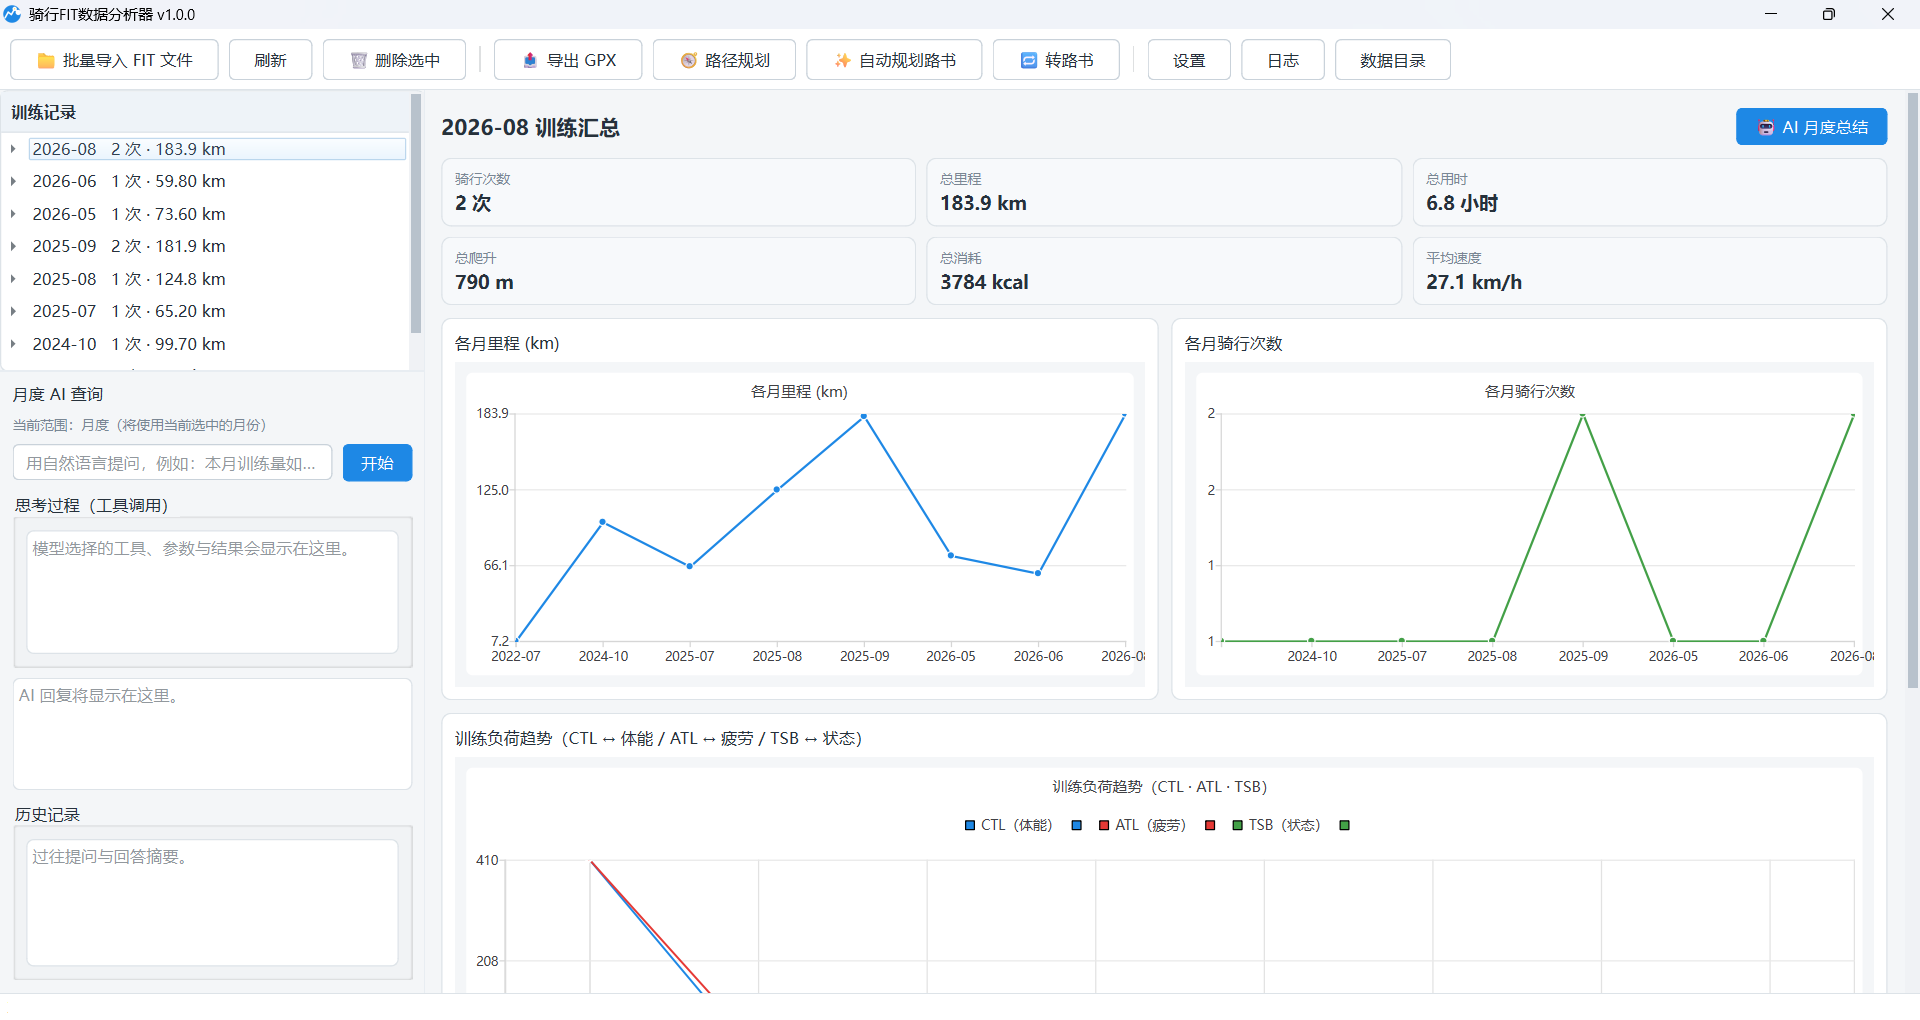
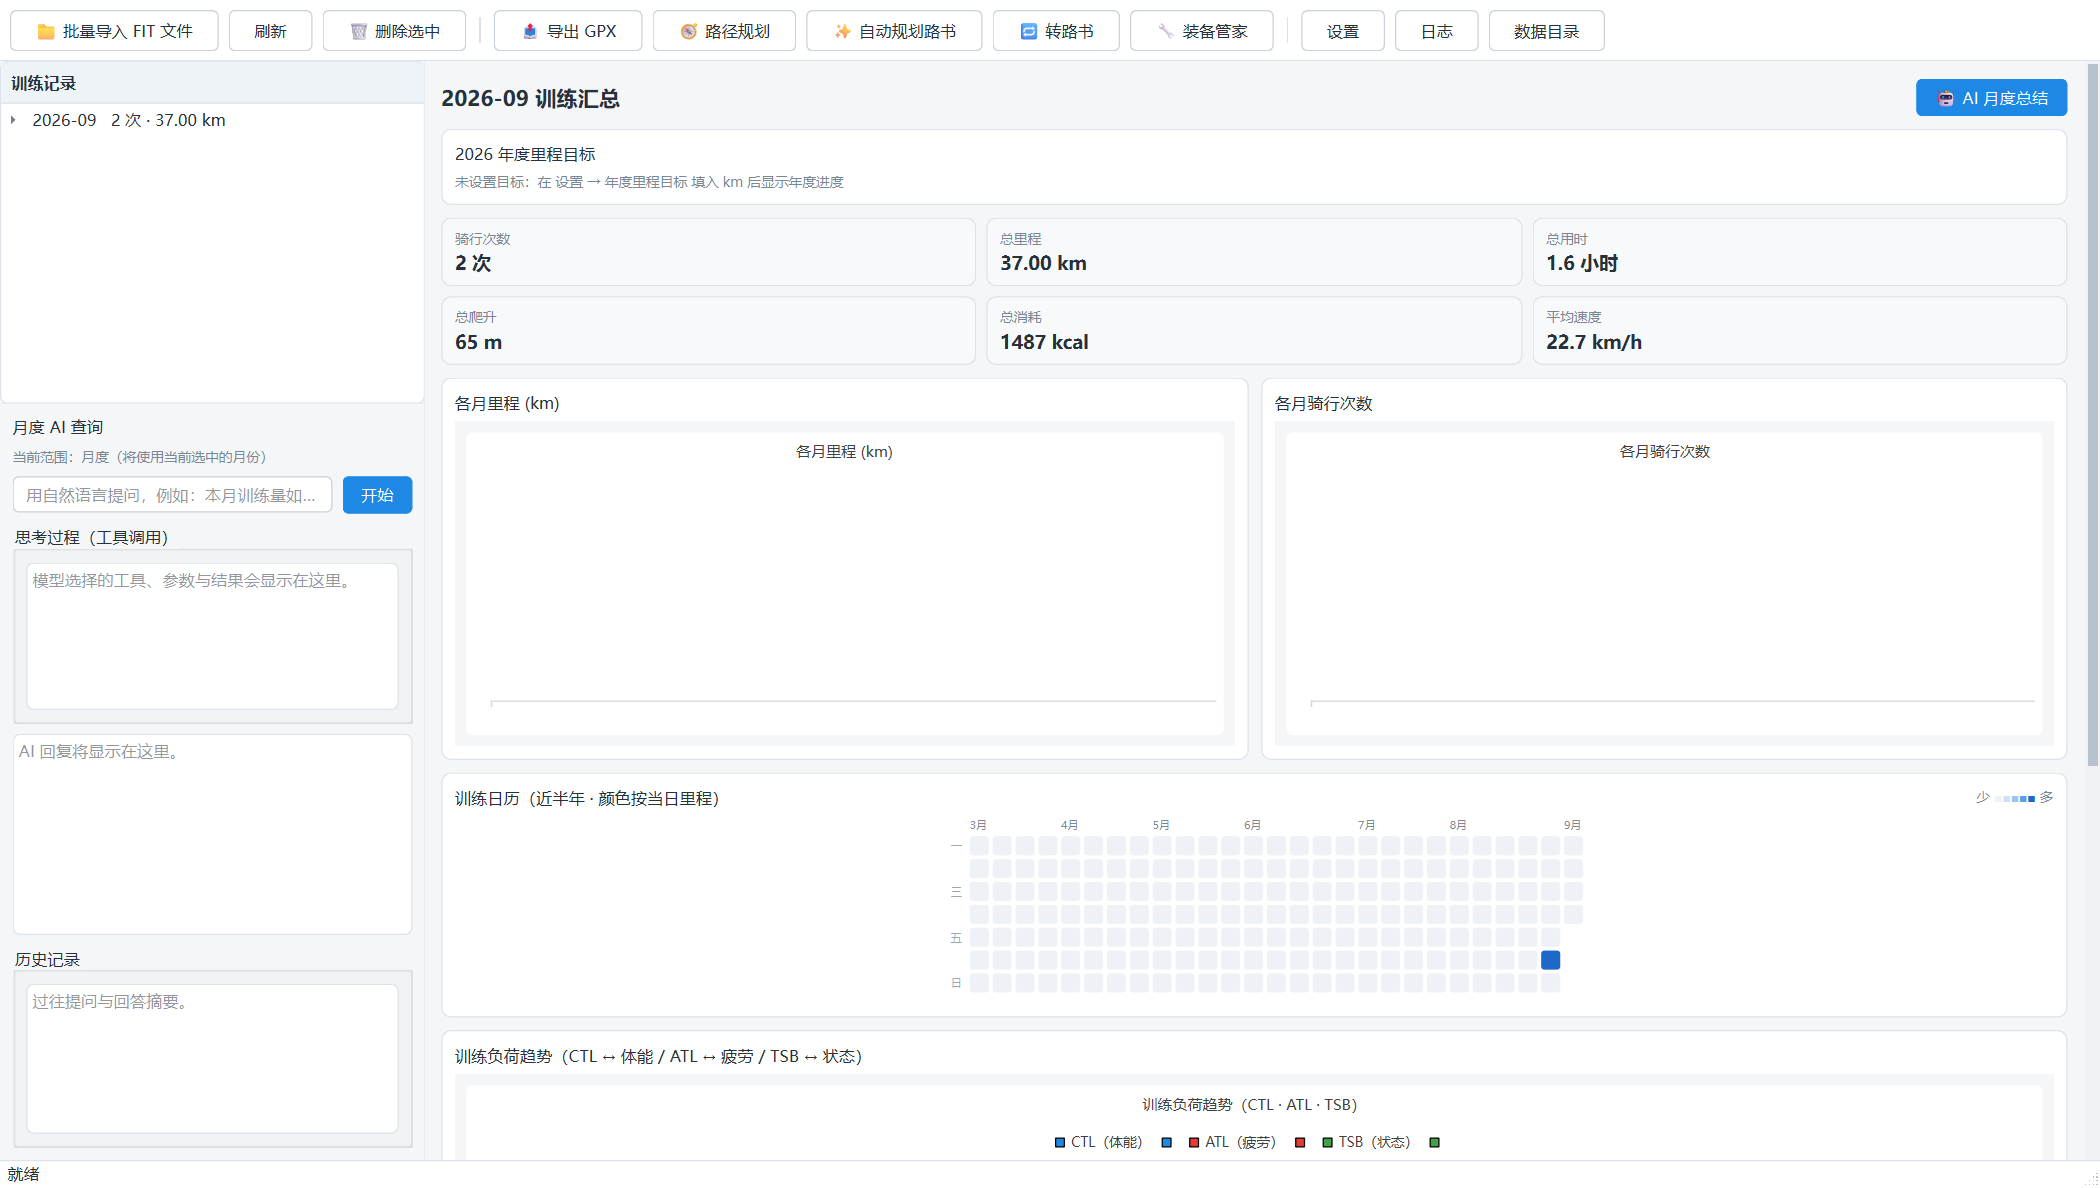
fix: 修复点击月度/活动记录时界面闪烁；新增 README 截图自动生成工具
界面体验
- 修复点击月份记录再点击单条活动时界面闪一下的问题：根因是每次点击
  都整页销毁重建全部控件（统计卡/图表/表格逐个删除再逐个添加），
  拆建过程在可见状态下逐帧渲染
- 两层修复：
  1) 视图缓存（_shown_month / _shown_activity_id）：同月份/同活动且
     数据未变时直接切页返回，不再重建，重复点击零开销
  2) 必须重建时用 setUpdatesEnabled(False) 暂停重绘，搭建完成后恢复，
     整页一次性成屏，消除中间帧
- 缓存失效点全部覆盖：导入/删除/重新识别设备（load_months）后强制
  重建；设置窗口关闭后强制重建当前视图（统计口径/年度目标/功率估算
  参数可能已变，避免显示旧数据）

文档与工具
- 新增 tools/make_screens.py：一键重新生成 README 全部 7 张界面截图
  （真实桌面平台渲染、WA_DontShowOnScreen 不弹窗、中文字体正常，
  数据库为空时自动从本机 FIT 目录导入；区别于 --selftest 的
  offscreen 模式截图中文显示为方框的问题）
- README 中英双语：登记截图工具与刷新说明、tools/ 目录入结构清单、
  补充装备管家章节 / 地名消歧说明 / 拖拽导入与 fit.db 描述
- imgs/ 下 7 张截图全部刷新至 v1.1.0 界面（含年度目标卡、训练日历
  热力图、恢复建议卡、估算功率标注、装备管家工具栏按钮）

验证：防闪烁行为自测 6/6（同月/同活动跳过重建、切换正常重建、
load_months 与设置变更后缓存正确失效），P0/P1 自测与既有测试
全量回归无破坏，打包 exe 离屏自检通过。

diff --git a/tools/make_screens.py b/tools/make_screens.py
@@ -1,0 +1,139 @@
+# -*- coding: utf-8 -*-
+"""重新生成 README 截图（imgs/*.png），使文档与当前界面保持一致。
+
+用法：
+    .venv/Scripts/python.exe tools/make_screens.py [--data-dir PATH]
+
+说明：
+- 优先使用 --data-dir 里的现有数据库；库为空时自动从本机 FIT 目录
+  （F:\\byciclefits 或 Documents\\deepseek\\fittestdata）导入
+- 真实桌面平台渲染：窗口设 WA_DontShowOnScreen（不会真的弹到屏幕上，
+  且中文字体正常，区别于 --selftest 的 offscreen 模式），grab() 截图
+- 每次界面有改动后重跑一遍即可刷新 README 里的截图
+"""
+import argparse
+import sys
+import time
+from pathlib import Path
+
+ROOT = Path(__file__).resolve().parent.parent
+sys.path.insert(0, str(ROOT))
+
+IMGS = ROOT / "imgs"
+
+
+def _settle(app, n=20):
+    """处理事件循环，让图表/控件完成布局与渲染。"""
+    for _ in range(n):
+        app.processEvents()
+        time.sleep(0.03)
+
+
+def _tab_index(tabs, text):
+    for i in range(tabs.count()):
+        if tabs.tabText(i) == text:
+            return i
+    return 0
+
+
+def main():
+    parser = argparse.ArgumentParser(description="重新生成 README 截图")
+    parser.add_argument("--data-dir", default=None, help="数据目录（默认 .tmp/screens_data）")
+    args = parser.parse_args()
+
+    data_dir = Path(args.data_dir) if args.data_dir else ROOT / ".tmp" / "screens_data"
+    data_dir.mkdir(parents=True, exist_ok=True)
+
+    from PySide6.QtCore import Qt
+    from PySide6.QtWidgets import QApplication
+
+    from core import db as db_mod, fit_parser, logging_setup
+    from core.config import Config
+
+    logging_setup.setup_logging(data_dir, console=False)
+    app = QApplication(sys.argv[:1])
+    app.setStyle("Fusion")
+    from gui.theme import QSS, apply_light_palette
+    apply_light_palette(app)
+    app.setStyleSheet(QSS)
+
+    config = Config(data_dir / "config.json")
+    db = db_mod.DB(data_dir / "fit.db")
+    if db.count() == 0:
+        fit_dir = None
+        for cand in (Path(r"F:\byciclefits"),
+                     Path(r"C:\Users\zhengyingjun\Documents\deepseek\fittestdata")):
+            if cand.exists() and any(cand.rglob("*.fit")):
+                fit_dir = cand
+                break
+        if fit_dir is None:
+            print("!! 无活动数据且未找到本机 FIT 目录，无法生成截图")
+            return 1
+        results, _ = fit_parser.parse_many(sorted(fit_dir.rglob("*.fit")))
+        for r in results:
+            db.upsert_activity(r["data"])
+        print(f"已从 {fit_dir} 导入 {len(results)} 条活动")
+
+    from app import list_backgrounds
+    from gui.main_window import MainWindow
+
+    win = MainWindow(data_dir, config, db, list_backgrounds())
+    win.setAttribute(Qt.WA_DontShowOnScreen, True)  # 不弹窗，但用真实平台渲染（字体正常）
+    win.resize(1680, 950)  # 宽度足够容纳月度页全部卡片，避免截图出现横向裁切
+    win.show()
+    _settle(app, 30)
+
+    def snap(widget, name):
+        _settle(app)
+        widget.grab().save(str(IMGS / f"{name}.png"))
+        print(f"  ✓ {name}.png")
+
+    months = db.months()
+    if not months:
+        print("!! 数据库无活动，无法生成截图")
+        return 1
+
+    # 1) 月概览（含年度目标 / 训练日历热力图 / 训练负荷）
+    win.show_month(months[0]["month"])
+    snap(win, "月概览")
+
+    # 2-5) 单活动各标签页
+    acts = db.list_activities(month=months[0]["month"])
+    win.show_activity(acts[0]["id"])
+    snap(win, "单次活动概览")
+    win.act_page.setCurrentIndex(_tab_index(win.act_page, "活动详情"))
+    snap(win, "活动详情")
+    win.act_page.setCurrentIndex(_tab_index(win.act_page, "轨迹"))
+    snap(win, "骑行路径")
+    win.act_page.setCurrentIndex(_tab_index(win.act_page, "AI 分析"))
+    snap(win, "ai分析")
+
+    # 6) 路书分析对话框（历史活动一键转路书）
+    from core import route as route_mod
+    r = route_mod.route_from_records("示例路书", db.get_records(acts[0]["id"]))
+    from gui.route_dialog import RouteDialog
+    dlg = RouteDialog(win, ai_client_factory=None, ai_enabled=False)
+    dlg.setAttribute(Qt.WA_DontShowOnScreen, True)
+    dlg.resize(760, 720)
+    dlg.show()
+    dlg.load_route(r)
+    snap(dlg, "路书规划-路径点模式")
+    dlg.close()
+
+    # 7) 自动规划路书对话框
+    from gui.auto_plan_dialog import AutoPlanDialog
+    dlg2 = AutoPlanDialog(config, parent=win)
+    dlg2.setAttribute(Qt.WA_DontShowOnScreen, True)
+    dlg2.resize(560, 520)
+    dlg2.show()
+    snap(dlg2, "路径规划，ai自动模式")
+    dlg2.close()
+
+    win.close()
+    db.close()
+    print(f"\n截图已更新到 {IMGS}")
+    return 0
+
+
+if __name__ == "__main__":
+    sys.exit(main())

diff --git a/gui/main_window.py b/gui/main_window.py
@@ -150,6 +150,10 @@ class MainWindow(QMainWindow):
         self.cur_laps = []
         self._workers = []
         self._tss_fill_running = False
+        # 视图重建缓存：同月份/同活动且数据未变时跳过整页重建（防点击闪烁）
+        self._shown_month = None
+        self._cur_month = None
+        self._shown_activity_id = None
 
         self.setWindowTitle(f"{config.get('app_name')} v{config.get('version')}")
         self.setWindowIcon(QIcon(make_app_icon()))
@@ -458,6 +462,7 @@ class MainWindow(QMainWindow):
         lay.addWidget(ai_card)
 
         # 月度页整体放入滚动区，防止内容超出窗口时显示不全
+        self.mv_page = page
         self.mv_scroll = QScrollArea()
         self.mv_scroll.setWidgetResizable(True)
         self.mv_scroll.setWidget(page)
@@ -598,6 +603,8 @@ class MainWindow(QMainWindow):
 
     # ---------------- 数据加载 ----------------
     def load_months(self):
+        self._shown_month = None        # 数据已变（导入/删除/重识别），页面需重建
+        self._shown_activity_id = None
         months = self.db.months()
         self.month_tree.clear()
         self._month_items = {}
@@ -703,11 +710,16 @@ class MainWindow(QMainWindow):
         self.statusBar().showMessage("已删除", 4000)
 
     # ---------------- 月度页 ----------------
-    def show_month(self, month):
+    def show_month(self, month, force=False):
         self.stack.setCurrentWidget(self.month_page)
+        self._cur_month = month
+        self._on_ai_mode_changed()  # 同步左侧 AI 对话面板的范围提示
+        if not force and self._shown_month == month:
+            return  # 同月份数据未变：跳过整页重建（防点击闪烁）
+        self._shown_month = month
         self.mv_title.setText(f"{month} 训练汇总")
         self.mv_ai_card.setVisible(False)
-        self._on_ai_mode_changed()  # 同步左侧 AI 对话面板的范围提示
+        self.mv_page.setUpdatesEnabled(False)  # 重建期间暂停重绘，避免界面闪烁
         self._render_year_goal(month)
         self._render_heatmap()
         self._render_gear_reminder()
@@ -758,6 +770,7 @@ class MainWindow(QMainWindow):
                 self.mv_table.setItem(r, c, item)
             self.mv_table.item(r, 0).setData(Qt.UserRole, a["id"])
         self.mv_table.resizeRowsToContents()
+        self.mv_page.setUpdatesEnabled(True)  # 恢复重绘，整页一次性成屏
 
     def on_mv_table_dbl(self, row, col):
         item = self.mv_table.item(row, 0)
@@ -913,11 +926,16 @@ class MainWindow(QMainWindow):
             ("设备", a.get("device") or "—"),
         ]
 
-    def show_activity(self, aid):
+    def show_activity(self, aid, force=False):
         act = self.db.get_activity(aid)
         if act is None:
             QMessageBox.warning(self, "提示", "活动不存在")
             return
+        self.stack.setCurrentWidget(self.act_page)
+        if not force and self._shown_activity_id == aid:
+            return  # 同一条活动且数据未变：跳过整页重建（防点击闪烁）
+        self._shown_activity_id = aid
+        self.act_page.setUpdatesEnabled(False)  # 重建期间暂停重绘，避免界面闪烁
         records = self.db.get_records(aid)
         # 实测功率须在估算前判定（估算会给所有记录注入 power）
         has_native_power = any(r.get("power") is not None for r in records)
@@ -1265,6 +1283,7 @@ class MainWindow(QMainWindow):
 
         # AI 页
         self.ai_text.setPlainText("点击「生成 AI 分析报告」按钮。")
+        self.act_page.setUpdatesEnabled(True)  # 恢复重绘，整页一次性成屏
 
     # ---------------- 拖拽导入 ----------------
     def dragEnterEvent(self, e):
@@ -1504,6 +1523,11 @@ class MainWindow(QMainWindow):
     def open_settings(self):
         dlg = SettingsDialog(self.config, self, on_reidentify=self.reidentify_devices, db=self.db)
         dlg.exec()
+        # 设置可能改变统计口径/年度目标/功率估算参数 → 强制重建当前视图
+        if self.stack.currentWidget() is self.act_page and self.cur_activity is not None:
+            self.show_activity(self.cur_activity["id"], force=True)
+        elif self._cur_month is not None:
+            self.show_month(self._cur_month, force=True)
 
     def open_logs(self):
         dlg = LogsDialog(self)

diff --git a/README_EN.md b/README_EN.md
@@ -41,6 +41,10 @@ A free, local, offline **cycling FIT data analysis tool** (pure desktop Windows 
 
 ![路径规划，ai自动模式](imgs/路径规划，ai自动模式.png)
 
+> Screenshots are generated automatically by `tools/make_screens.py` — after any UI
+> change, run `.venv\Scripts\python.exe tools\make_screens.py` to refresh them and keep
+> the docs in sync with the app.
+
 ---
 
 ## 1. Running
@@ -243,6 +247,7 @@ fit_analyzer/
 │   └── config.py / logging_setup.py / http_utils.py
 ├── back9.jpeg            # track background image
 ├── build/                # PyInstaller spec + pack.py + build_exe.ps1
+├── tools/                # helper tools (make_screens.py regenerates README screenshots)
 └── tests/                # smoke tests / route / route-planning unit tests
 ```
 

diff --git a/README.md b/README.md
@@ -42,6 +42,9 @@
 
 ![路径规划，ai自动模式](imgs/路径规划，ai自动模式.png)
 
+> 界面截图由 `tools/make_screens.py` 自动生成——界面改动后运行
+> `.venv\Scripts\python.exe tools\make_screens.py` 即可一键刷新，保持文档与软件同步。
+
 ---
 
 ## 一、运行
@@ -246,6 +249,7 @@ fit_analyzer/
 │   └── config.py / logging_setup.py / http_utils.py
 ├── back9.jpeg            # 轨迹背景图
 ├── build/                # PyInstaller spec + pack.py 一键打包 + build_exe.ps1
+├── tools/                # 辅助工具（make_screens.py 重新生成 README 截图）
 └── tests/                # 冒烟测试 / 路书 / 路径规划单元测试
 ```
 
